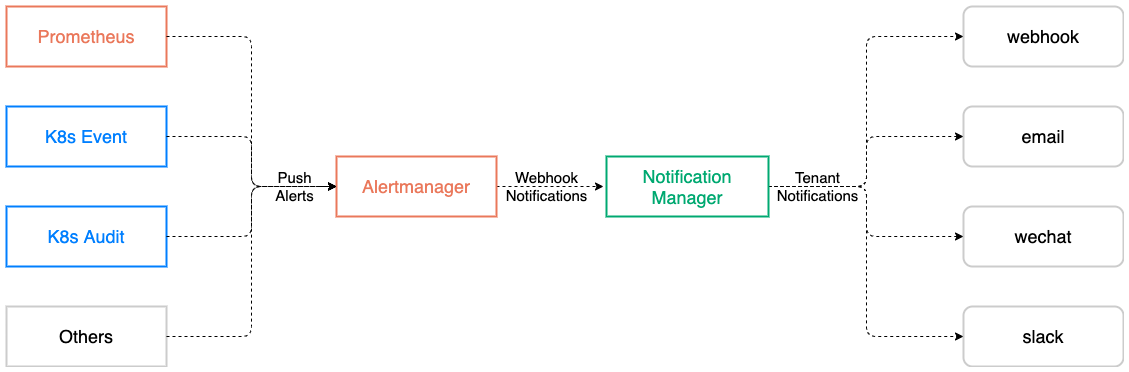
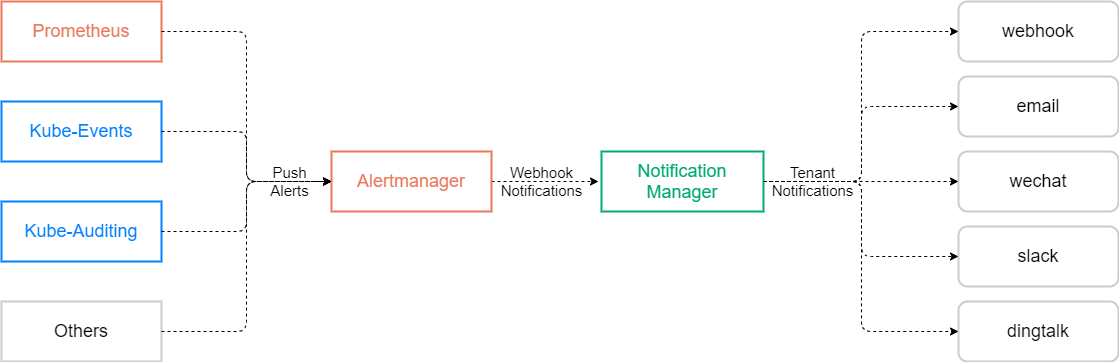
update image

diff --git a/README.md b/README.md
@@ -33,6 +33,8 @@ Notification Manager uses the following CRDs to define the desired alerts/notifi
 - SlackReceiver: Define the slack channel to send notifications to and the SlackConfig selector.
 - WebhookConfig: Define the webhook Url, HttpConfig.
 - WebhookReceiver: Define the WebhookConfig selector.
+- DingTalkConfig: Define the dingtalk configs like AppKey, AppSecret, ChatID, chatbot Webhook etc.
+- DingTalkReceiver: Define the DingTalkConfig selector.
 
 The relationship between receivers and configs can be demostrated as below:
 
